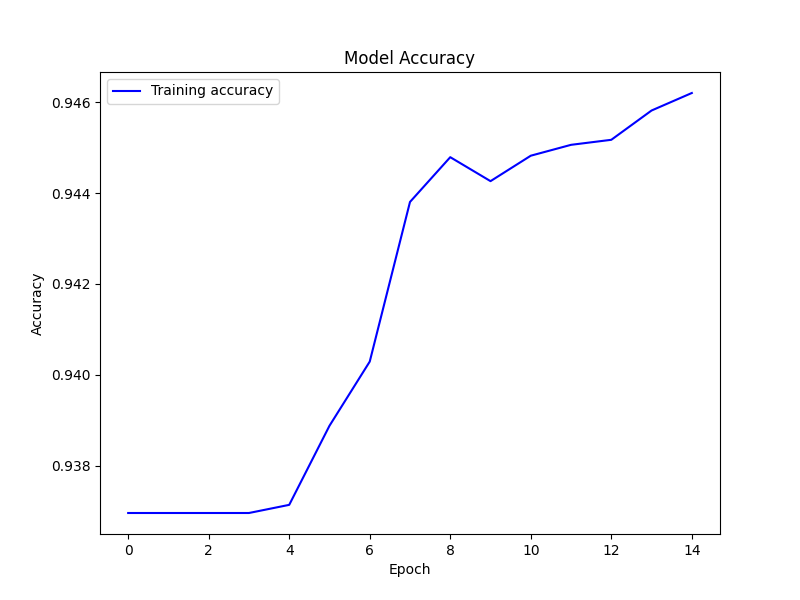
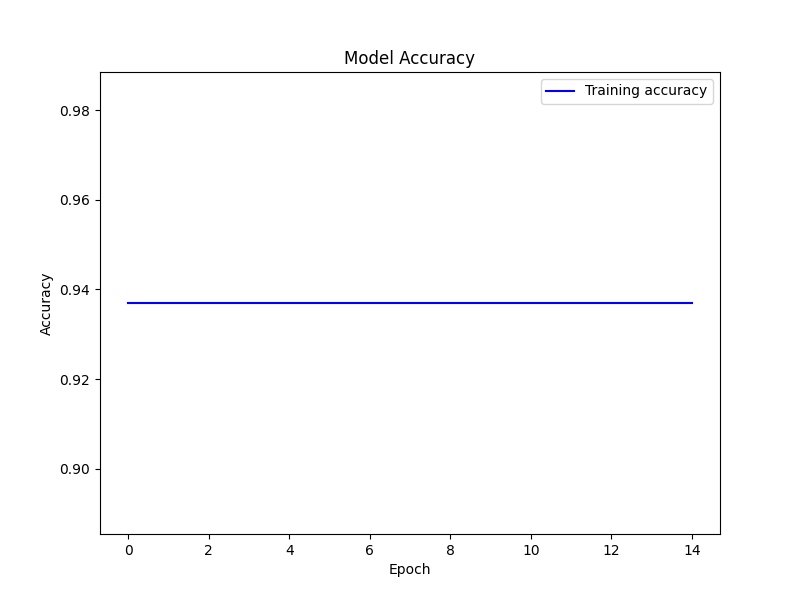
10.15-换了损失函数

diff --git a/MoDL-main/MoDL_seg/train_2.5d.py b/MoDL-main/MoDL_seg/train_2.5d.py
@@ -6,7 +6,14 @@ from tensorflow.keras.optimizers import Adam
 from tensorflow.keras.callbacks import ModelCheckpoint
 import matplotlib.pyplot as plt
 import os
+from tensorflow.keras import backend as K
 
+def dice_loss(y_true, y_pred, smooth=1e-6):
+    y_true_f = K.flatten(y_true)
+    y_pred_f = K.flatten(y_pred)
+    intersection = K.sum(y_true_f * y_pred_f)
+    dice_coefficient = (2. * intersection + smooth) / (K.sum(y_true_f) + K.sum(y_pred_f) + smooth)
+    return 1. - dice_coefficient
 # 禁用TensorFlow的一些冗余日志
 os.environ['TF_CPP_MIN_LOG_LEVEL'] = '2'
 
@@ -101,12 +108,12 @@ def train():
 
     # --- 步骤 E: 编译模型，准备微调 ---
     # 我们只训练新添加的层 (ConvLSTM和适配器层)
-    convlstm_unet_model.compile(optimizer=Adam(learning_rate=1e-4), loss='binary_crossentropy', metrics=['accuracy'])
-
+    #convlstm_unet_model.compile(optimizer=Adam(learning_rate=1e-4), loss='binary_crossentropy', metrics=['accuracy'])
+    convlstm_unet_model.compile(optimizer=Adam(learning_rate=1e-4), loss=dice_loss, metrics=['accuracy'])
     # ====================================================================
 
     # --- 设置模型保存回调 ---
-    output_model_path = '../model/convlstm_unet_finetuned.hdf5'
+    output_model_path = '../model/convlstm_unet_finetuned_dice.hdf5'
     model_checkpoint = ModelCheckpoint(output_model_path, monitor='loss', verbose=1, save_best_only=True)
 
     # --- 模型微调 ---

diff --git a/MoDL-main/MoDL_seg/predict_2.5d.py b/MoDL-main/MoDL_seg/predict_2.5d.py
@@ -7,6 +7,7 @@ import cv2
 from pathlib import Path
 from tensorflow.keras.models import load_model
 
+
 # 禁用PIL和TensorFlow的一些冗余日志
 Image.MAX_IMAGE_PIXELS = None
 os.environ['TF_CPP_MIN_LOG_LEVEL'] = '2'
@@ -65,8 +66,8 @@ def predict_center_frame_with_2_5d_model(model, raw_frames_3_seq, target_size=(5
 if __name__ == "__main__":
     # --- 配置 ---
     input_dir = "../10.15data_1-10/test/"
-    output_dir = "../10.15data_1-10/test_predictions_center_frame/"
-    model_path = "../model/convlstm_unet_finetuned.hdf5"
+    output_dir = "../10.15data_1-10/test_predictions_center_frame_dice/"
+    model_path = "../model/convlstm_unet_finetuned_dice.hdf5"
 
     os.makedirs(output_dir, exist_ok=True)
 
